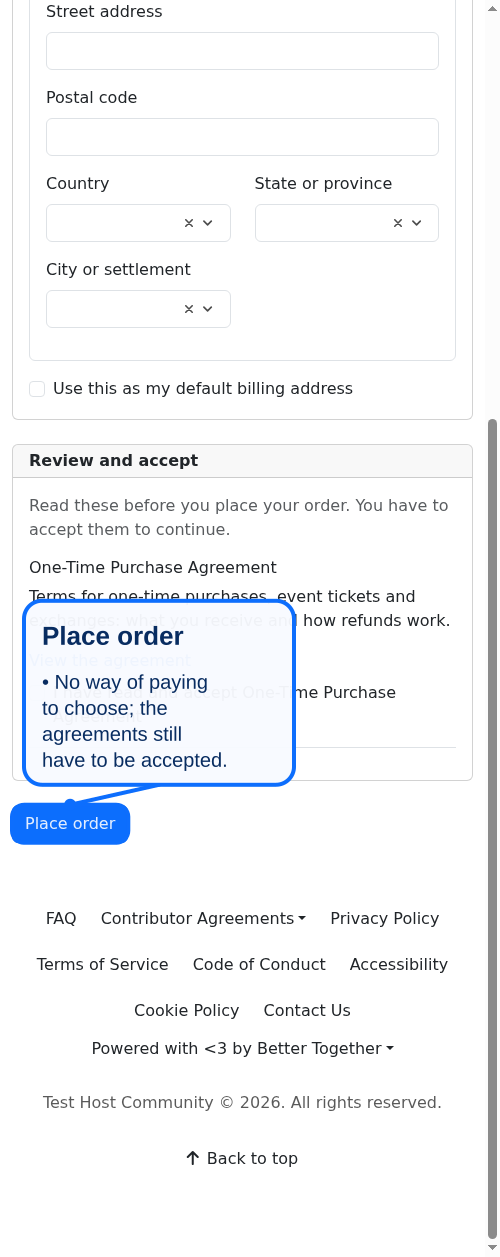
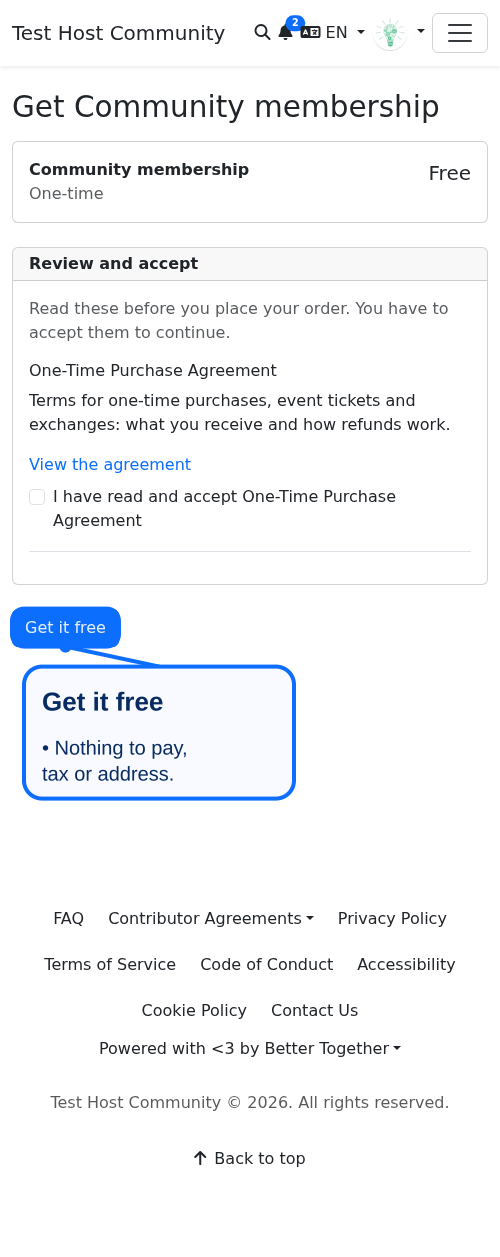
feat(billing): free plan checkout says Free and asks for no billing address
A free plan shows Free instead of US$0.00, hides the tax note and the billing
address, and its button reads Get it free. The order keeps no address.

diff --git a/spec/requests/better_together/billing/free_plan_checkout_spec.rb b/spec/requests/better_together/billing/free_plan_checkout_spec.rb
@@ -2,10 +2,9 @@
 
 require 'rails_helper'
 
-# A plan that costs nothing is taken without choosing a way to pay: the agreements and billing address still come first.
+# A plan that costs nothing is taken without choosing a way to pay: the agreements still come first.
+# It has no tax to work out, so it asks for no billing address either.
 RSpec.describe 'Checkout for a free plan', :request do # rubocop:disable RSpec/DescribeClass
-  include BetterTogether::BillingAddressHelpers
-
   include_context 'with orders fixtures'
   include_context 'with builtin billing processors'
   include_context 'with billing switched on'
@@ -14,7 +13,6 @@ RSpec.describe 'Checkout for a free plan', :request do # rubocop:disable RSpec/D
   let(:password) { 'SecureTest123!@#' }
   let(:member) { find_or_create_test_user("free-member-#{SecureRandom.hex(4)}@example.test", password) }
   let(:buyer) { member.person }
-  let(:buyer_address) { create_billing_address_for(buyer) }
   let(:free_plan) do
     create(:better_together_billing_plan, :one_time, processor: nil, processor_price_id: nil, processor_product_id: nil,
                                                      accepted_payment_methods: [], amount_cents: 0, currency: 'USD')
@@ -37,9 +35,24 @@ RSpec.describe 'Checkout for a free plan', :request do # rubocop:disable RSpec/D
     expect(response.body).not_to include('billing-checkout-methods', 'billing-checkout-no-methods')
   end
 
+  it 'says Free, offers Get it free, and leaves out the tax note and the billing address' do
+    get better_together.new_billing_checkout_path(locale:, plan_id: free_plan.id)
+
+    expect_html_content('Free')
+    expect(response.body).to include('value="Get it free"')
+    expect_no_html_content('US$0.00')
+    expect(response.body).not_to include('billing-checkout-tax-note', 'billing_address', 'Place order')
+  end
+
+  it 'keeps no billing address on the order' do
+    post better_together.billing_checkout_path(locale:), params: { plan_id: free_plan.id }.merge(ticks)
+
+    expect(host_platform.billing_orders.last.billing_address).to be_blank
+  end
+
   it 'places the order with no payment method, paid at once' do
     post better_together.billing_checkout_path(locale:),
-         params: { plan_id: free_plan.id, **billing_address_params(buyer_address) }.merge(ticks)
+         params: { plan_id: free_plan.id }.merge(ticks)
 
     order = host_platform.billing_orders.order(:created_at).last
     expect(response).to redirect_to(better_together.billing_order_path(order, locale:))
@@ -49,13 +62,13 @@ RSpec.describe 'Checkout for a free plan', :request do # rubocop:disable RSpec/D
 
   it 'ignores a payment method sent for it' do
     post better_together.billing_checkout_path(locale:),
-         params: { plan_id: free_plan.id, payment_method: 'cash', **billing_address_params(buyer_address) }.merge(ticks)
+         params: { plan_id: free_plan.id, payment_method: 'cash' }.merge(ticks)
 
     expect(host_platform.billing_orders.last).to be_paid
   end
 
   it 'still needs the agreements accepted' do
-    post better_together.billing_checkout_path(locale:), params: { plan_id: free_plan.id, **billing_address_params(buyer_address) }
+    post better_together.billing_checkout_path(locale:), params: { plan_id: free_plan.id }
 
     expect(response).to have_http_status(:unprocessable_content)
     expect(host_platform.billing_orders).to be_empty

diff --git a/app/controllers/better_together/billing/checkouts_controller.rb b/app/controllers/better_together/billing/checkouts_controller.rb
@@ -8,7 +8,7 @@ module BetterTogether
     # The agreements come first and are enforced here and again when the order is placed, so
     # nothing the screen does can skip them. If the platform's purchase agreements are missing or
     # still drafts the page says it cannot be completed yet and offers no way to accept.
-    class CheckoutsController < ApplicationController
+    class CheckoutsController < ApplicationController # rubocop:disable Metrics/ClassLength
       include OwnerScoped
       include CheckoutTaxPreview
 
@@ -20,15 +20,14 @@ module BetterTogether
         authorize BetterTogether::Billing::Order, :checkout?
         load_choice
         @gate = build_gate if @method || @plan.free?
-        load_addresses
-        load_tax_preview
+        load_billing_details
       end
 
       def create
         authorize BetterTogether::Billing::Order, :checkout?
         load_choice
         return render_again(:method_not_available) unless @method || @plan.free?
-        return render_again(@address_error) unless choose_address
+        return render_again(@address_error) unless address_ok?
         return render_again(:parts_too_large) if parts_too_large?
 
         @gate = build_gate
@@ -44,6 +43,14 @@ module BetterTogether
         @method = chosen_method
         @parts = chosen_parts
         @renew_with = chosen_renewal_method
+      end
+
+      # A free plan has no tax to work out, so it asks for no billing address either.
+      def load_billing_details
+        return if @plan.free?
+
+        load_addresses
+        load_tax_preview
       end
 
       def load_addresses
@@ -118,7 +125,10 @@ module BetterTogether
         render_again(:refused)
       end
 
-      # The buyer's billing address: one of theirs, or a new one typed in. Every order needs one with a chosen country and state.
+      def address_ok? = @plan.free? || choose_address
+
+      # The buyer's billing address: one of theirs, or a new one typed in. Every order that costs something needs one with a chosen
+      # country and state; a free one needs none.
       def choose_address
         result = Checkout::BillingAddressChoice.call(platform: billing_owner, person: current_user.person,
                                                      address_id: params[:billing_address_id], new_address: params[:billing_address],
@@ -138,8 +148,7 @@ module BetterTogether
 
       def render_again(reason)
         @error = reason
-        load_addresses
-        load_tax_preview
+        load_billing_details
         render :new, status: :unprocessable_content
       end
     end

diff --git a/spec/docs_screenshots/better_together/billing_checkout_spec.rb b/spec/docs_screenshots/better_together/billing_checkout_spec.rb
@@ -75,7 +75,7 @@ RSpec.describe 'Documentation screenshots for checkout and purchase terms', # ru
                    bullets: ['Nothing is placed until every agreement is accepted.'] }]
     ) do
       visit_billing("checkout/new?plan_id=#{cash_plan.id}&payment_method=cash")
-      scroll_to(find('#billing-checkout-place-btn'), align: :center)
+      scroll_to(find('#billing-checkout-summary'), align: :top)
       expect(page).to have_css('#billing-checkout-place-btn')
     end
   end
@@ -88,18 +88,18 @@ RSpec.describe 'Documentation screenshots for checkout and purchase terms', # ru
       'billing_checkout_free_plan',
       device: :both,
       metadata: screenshot_metadata(flow: 'billing_checkout_free_plan'),
-      callouts: [{ id: 'place', selector: '#billing-checkout-place-btn', title: 'Place order',
-                   bullets: ['No way of paying to choose; the agreements still have to be accepted.'] }],
+      callouts: [{ id: 'place', selector: '#billing-checkout-place-btn', title: 'Get it free',
+                   bullets: ['Nothing to pay, tax or address.'] }],
       narrative: {
         title: 'Checkout: a free plan',
         audience: %w[member],
-        journey_step: 'As a member, I accept the agreements and take a free plan.',
-        callouts: [{ id: 'place', title: 'Place the order', description: 'The plan starts at once; nothing is charged.' }],
+        journey_step: 'As a member, I accept the agreements and take a free plan; I am not asked how to pay or for a billing address.',
+        callouts: [{ id: 'place', title: 'Get it free', description: 'The plan starts at once; nothing is charged.' }],
         accessibility_notes: 'The agreements are labelled checkboxes; there is no payment method step.'
       }
     ) do
       visit_billing("checkout/new?plan_id=#{free_plan.id}")
-      scroll_to(find('#billing-checkout-place-btn'), align: :center)
+      scroll_to(find('#billing-checkout-summary'), align: :top)
       expect(page).to have_css('#billing-checkout-place-btn')
       expect(page).to have_no_css('#billing-checkout-methods')
     end
